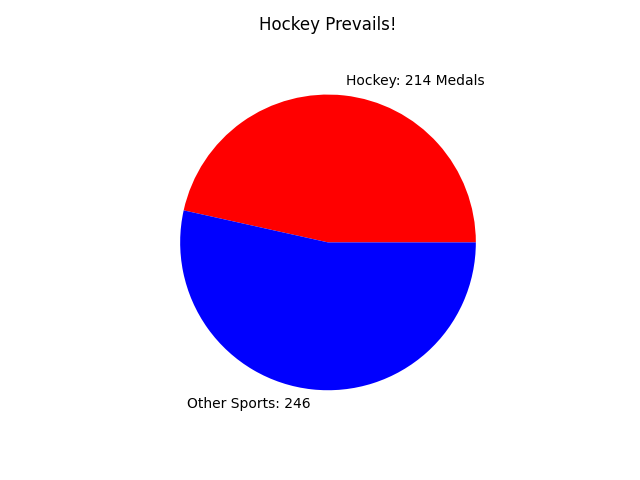
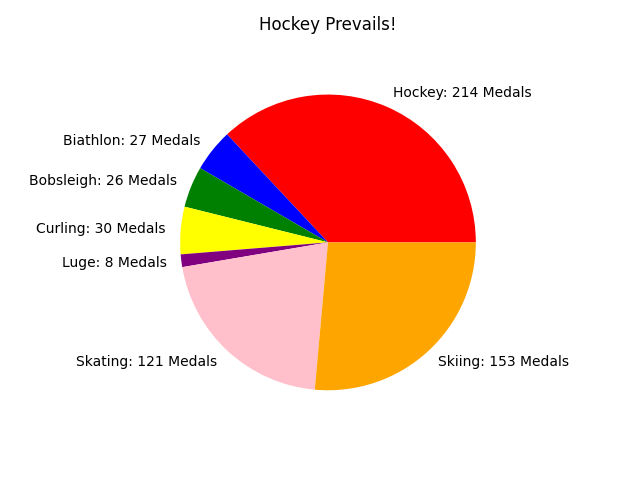
Completed Site

Changed region(s): [[0.0312, 0.2812, 0.9062, 0.875], [0.5312, 0.1562, 0.8438, 0.2188], [0.125, 0.7188, 0.3438, 0.7812]]

diff --git a/index.html b/index.html
@@ -8,48 +8,72 @@
 	<link rel="stylesheet" type="text/css" href="css/main.css">
 </head>
 <body>
+<div class="logo">
 	<main.wrapper><h1 class="hidden"></h1>
 	<h2>Olympic Data Analysis for Norway</h2>
+	<section>
+		
 	<img src="images/norway-flag.jpg" height="186" width="256" alt="flag of norway-flag">
+</section></main.wrapper></div>
+	
+	<section>
+		<div class="body">
+	
 	<p>Other students will most likely compare data for the United States or Canada. So on this page, <br>I will be breaking down and showing visuals of all components involved in the country that finished 3rd in total medals, Norway!<br>How many gold, silver and bronze were won? How many were from men and women? <br>Scroll down to find out!</p>
 
+</section>
 	<section class="argument">
 		<h2 class="hidden">Data Point 1</h2>
 		<h2 class="subhead">Medal Amounts</h2>
-		<p>The following pie chart below breaks down how many gold, silver, and bronze medals were won for Norway.</p>
+		<p>The following charts below break down how many gold, silver, and bronze medals were won for Norway, and how many from each gender.</p>
 
-		<img class ="data-graphic" src="images/piechart-1.png" alt="data viz graphic">
+		<img class="data-graphic" src="images/piechart-1.png" alt="data viz graphic" width="427" height="320">
+		<img class="data-graphic" src="images/barchart-2.png" alt="data viz graphic" width="427" height="320">
 
-		<p>Norway's total medal count ranks 3rd in the world behind the United States and Canada!</p> 
+
+
+		<p>The following line chart shows how many medals were won at each olympics. <br> 35.4% of Norway's medals come from the 1994 Olympic Games on home soil in Lillehammer, <br>and the rest come from the 1998 Olympic Games in Nagano, Japan.
+			<br> Norway's total medal count ranks 3rd in the world behind the United States and Canada!</p> 
+
+			
+			<img class="data-gr" src="images/linechart-1.png" alt="data viz graphic" width="427" height="320">
+			<img src="images/1994.jpg" alt="1994 olympics in norway" width="520" height="320">
+
 	</section>
+
 
 	<section class="argument">
 		<h1 class="hidden">Data Point 2</h1>
 		<h2 class="subhead">What Sports do Norway Shine At?</h2>
-		<p>The attached bar graph shows how many of the country's medals were won for each sport. The 460 total medals that Norway has won, was only across 7 sports!</p>
+		<p>The attached bar graph shows how many of the country's medals were won for each sport. <br>The 460 total medals that Norway has won, was only across 7 sports!</p>
 
-		<img class ="pie-chart" src="images/barchart-1.png" alt="data viz graphic">
+		<img class="pie-chart" src="images/barchart-1.png" alt="data viz graphic" height="320" width="427">
+		<img class="pie-chart" src="images/piechart-2.png" alt="data viz graphic" width="427" height="320">
 	</section>
 
 	<section class="argument">
 		<h1 class="hidden">Data Point 3</h1>
 		<h2 class="subhead">Hockey in Norway</h2>
 		<div class="iframe-container">
-			<p>46.5% of Norway's medals in the Olympic Games have came from one sport- Ice Hockey.<br>Below you can see a video of some of Norway's best Olympic hockey plays!</p>
-		<img class ="pie-chart" src="images/piechart-2.png" alt="data viz graphic">
-
-		<video width="640" height="480" controls>
+			<p>46.5% of Norway's medals in the Olympic Games have came from one sport- Ice Hockey.<br>In 1994, Norway's Mens Ice Hockey team played 8 games en route to their medal. The line chart below shows how many goals they scored per game. <br> Also below, you can see a video of some of Norway's best Olympic hockey plays!</p>
+		
+		<img class="pie-chart" src="images/linechart-2.png" alt="data viz graphic" width="427" height="320">
+		<video width="427" height="320" controls>
   <source src="images/norwayvid-1.mp4" type="video/mp4">
   
   Your browser does not support the video tag.
-</video>
+	</source></video>
 		<p>As you can see, Norway provides some very skilled hockey players. There are many in the NHL!</p>
 
-	</section>
+	</div></section>
+</div>
+		
 
 	<footer>
+		<div class="footer"></div>
 		<h1 class="hidden">Footer</h1>
-		<h2>Some Footer Stuff</h2>
+		<h2>Conclusion</h2>
+		<p>In conclusion, although Norway may only be a small country in Europe, their people have proved dominate in worldwide competion. <br>I look forward to see what talent from Norway comes in the future!</p>
 	</footer>
 </body>
 </html>

diff --git a/css/main.css b/css/main.css
@@ -1,16 +1,67 @@
-.iframe-container
+
+div,p,body,section,article,nav,h1,h3,h4 { 
+margin-top: 20px;
+margin-bottom: 20px; 
+background-color: #ff9595;
+font-family: "Verdana", Helvetica, Arial, sans-serif;
+color: #efefef;
+} 
+
+h2
 {
-	position: relative;
-	width: 100%;
-	padding-bottom: 56.25%;
-	height: 0;
+	text-decoration: : underline;
+	color: #0200A9;
 }
 
-.iframe-container iframe
-{
-	position: absolute;
-	top: 0;
-	left: 0;
-	width: 100%;
-	height: 100%
+img { 
+border: none; 
+margin: 0; 
+padding: 0; 
 }
+
+/*html selectors*/
+
+/*a:link is for not visited, a:visited is for visited, and just a applies to both.*/
+/*a will also style anchor links*/
+
+a:link, a:visited { 
+text-decoration:none; 
+}
+
+a:hover, a:active { 
+text-decoration:none; 
+ }
+
+/*hide elements from browser but show for doc outline*/
+
+.hidden
+{
+  display: none;
+}
+
+.mainHeader
+{
+	display: flex;
+	flex-direction: row;
+	justify-content: flex-start;
+}
+
+.logo
+{
+	width: 200px:
+	margin-top: 10px;
+	margin-left: 0px;
+	margin-bottom: 10px;
+}
+
+
+.hero
+{
+	height: 384px;
+	width: 980px;
+	background: url(../images/home_header.jpg) no-repeat bottom;
+	display: flex;
+	flex-direction: column;
+	justify-content: flex-end;
+}
+

diff --git a/data/mapper2.py b/data/mapper2.py
@@ -4,15 +4,15 @@ hfont = {'fontname':'Lato'}
 
 # draw a simple line chart showing population growth
 
-years = ['1994', '1998']
+game = ['1', '2', '3', '4', '5', '6', '7', '8']
 
-medals = [163, 294]
+goals = [4, 2, 1, 5, 4, 3, 6, 3]
 # plot our chart with the data above, and also format the line color and width
-plt.plot(years, medals, color=(0/255, 100/255, 100/255), linewidth=6.0)
-plt.ylabel("Medals")
-plt.xlabel("Years")
+plt.plot(game, goals, color=(0/255, 100/255, 100/255), linewidth=6.0)
+plt.ylabel("Goals")
+plt.xlabel("Game")
 
-plt.title("Medals won over the years", pad="20"), 
+plt.title("Goals per Game", pad="20"), 
 
 #run the show method this lives inside the pyplot package
 plt.show()

diff --git a/data/barchart.py b/data/barchart.py
@@ -1,24 +1,19 @@
 import matplotlib.pyplot as plt
 
-fig = plt.figure()
-
-ax = fig.add_axes([0,0,1,1])
-
 sports = ['Biathlon', 'Bobsleigh', 'Curling', 'Ice Hockey', 'Luge', 'Skating', 'Skiing']
 
 medals = [27, 26, 30, 214, 8, 121, 153]
 
 width = 0.35
 
-ax.bar(sports, medals)
+
 
 x_labels = [0, 50, 100, 150, 200]
 y_labels = ['Biathlon', 'Bobsleigh', 'Curling', 'Ice Hockey', 'Luge', 'Skating', 'Skiing']
 
-ax.set_ylabel("World Population by Billion")
-ax.set_xlabel("Population Growth by Year")
+plt.xlabel("Sports")
+plt.ylabel("Medals")
 
-ax.set_title("World Population Growth")
-
-ax.show()
+plt.bar(sports, medals)
+plt.show()
 

diff --git a/data/piechart.py b/data/piechart.py
@@ -2,9 +2,9 @@ import matplotlib.pyplot as plt
 
 #generate a pie chart with our Olympic data
 
-values = [214, 246]
-colors = ['red', 'blue']
-labels = ['Hockey: 214 Medals', 'Other Sports: 246'] 
+values = [214, 27, 26, 30, 8, 121, 153]
+colors = ['red', 'blue', 'green', 'yellow', 'purple', 'pink', 'orange']
+labels = ['Hockey: 214 Medals', 'Biathlon: 27 Medals', 'Bobsleigh: 26 Medals', 'Curling: 30 Medals', 'Luge: 8 Medals', 'Skating: 121 Medals', 'Skiing: 153 Medals'] 
 
 plt.pie(values, labels=labels, colors=colors)
 

diff --git a/data/barchart2.py b/data/barchart2.py
@@ -1,0 +1,19 @@
+import matplotlib.pyplot as plt
+
+gender = ['Men', 'Women']																																																																																																																																
+
+medals = [281, 179]
+
+width = 0.35
+
+
+
+x_labels = [0, 50, 100, 150, 200]
+y_labels = ['Men', 'Women']
+
+plt.xlabel("Gender")
+plt.ylabel("Medals")
+
+plt.bar(gender, medals)
+plt.show()
+
